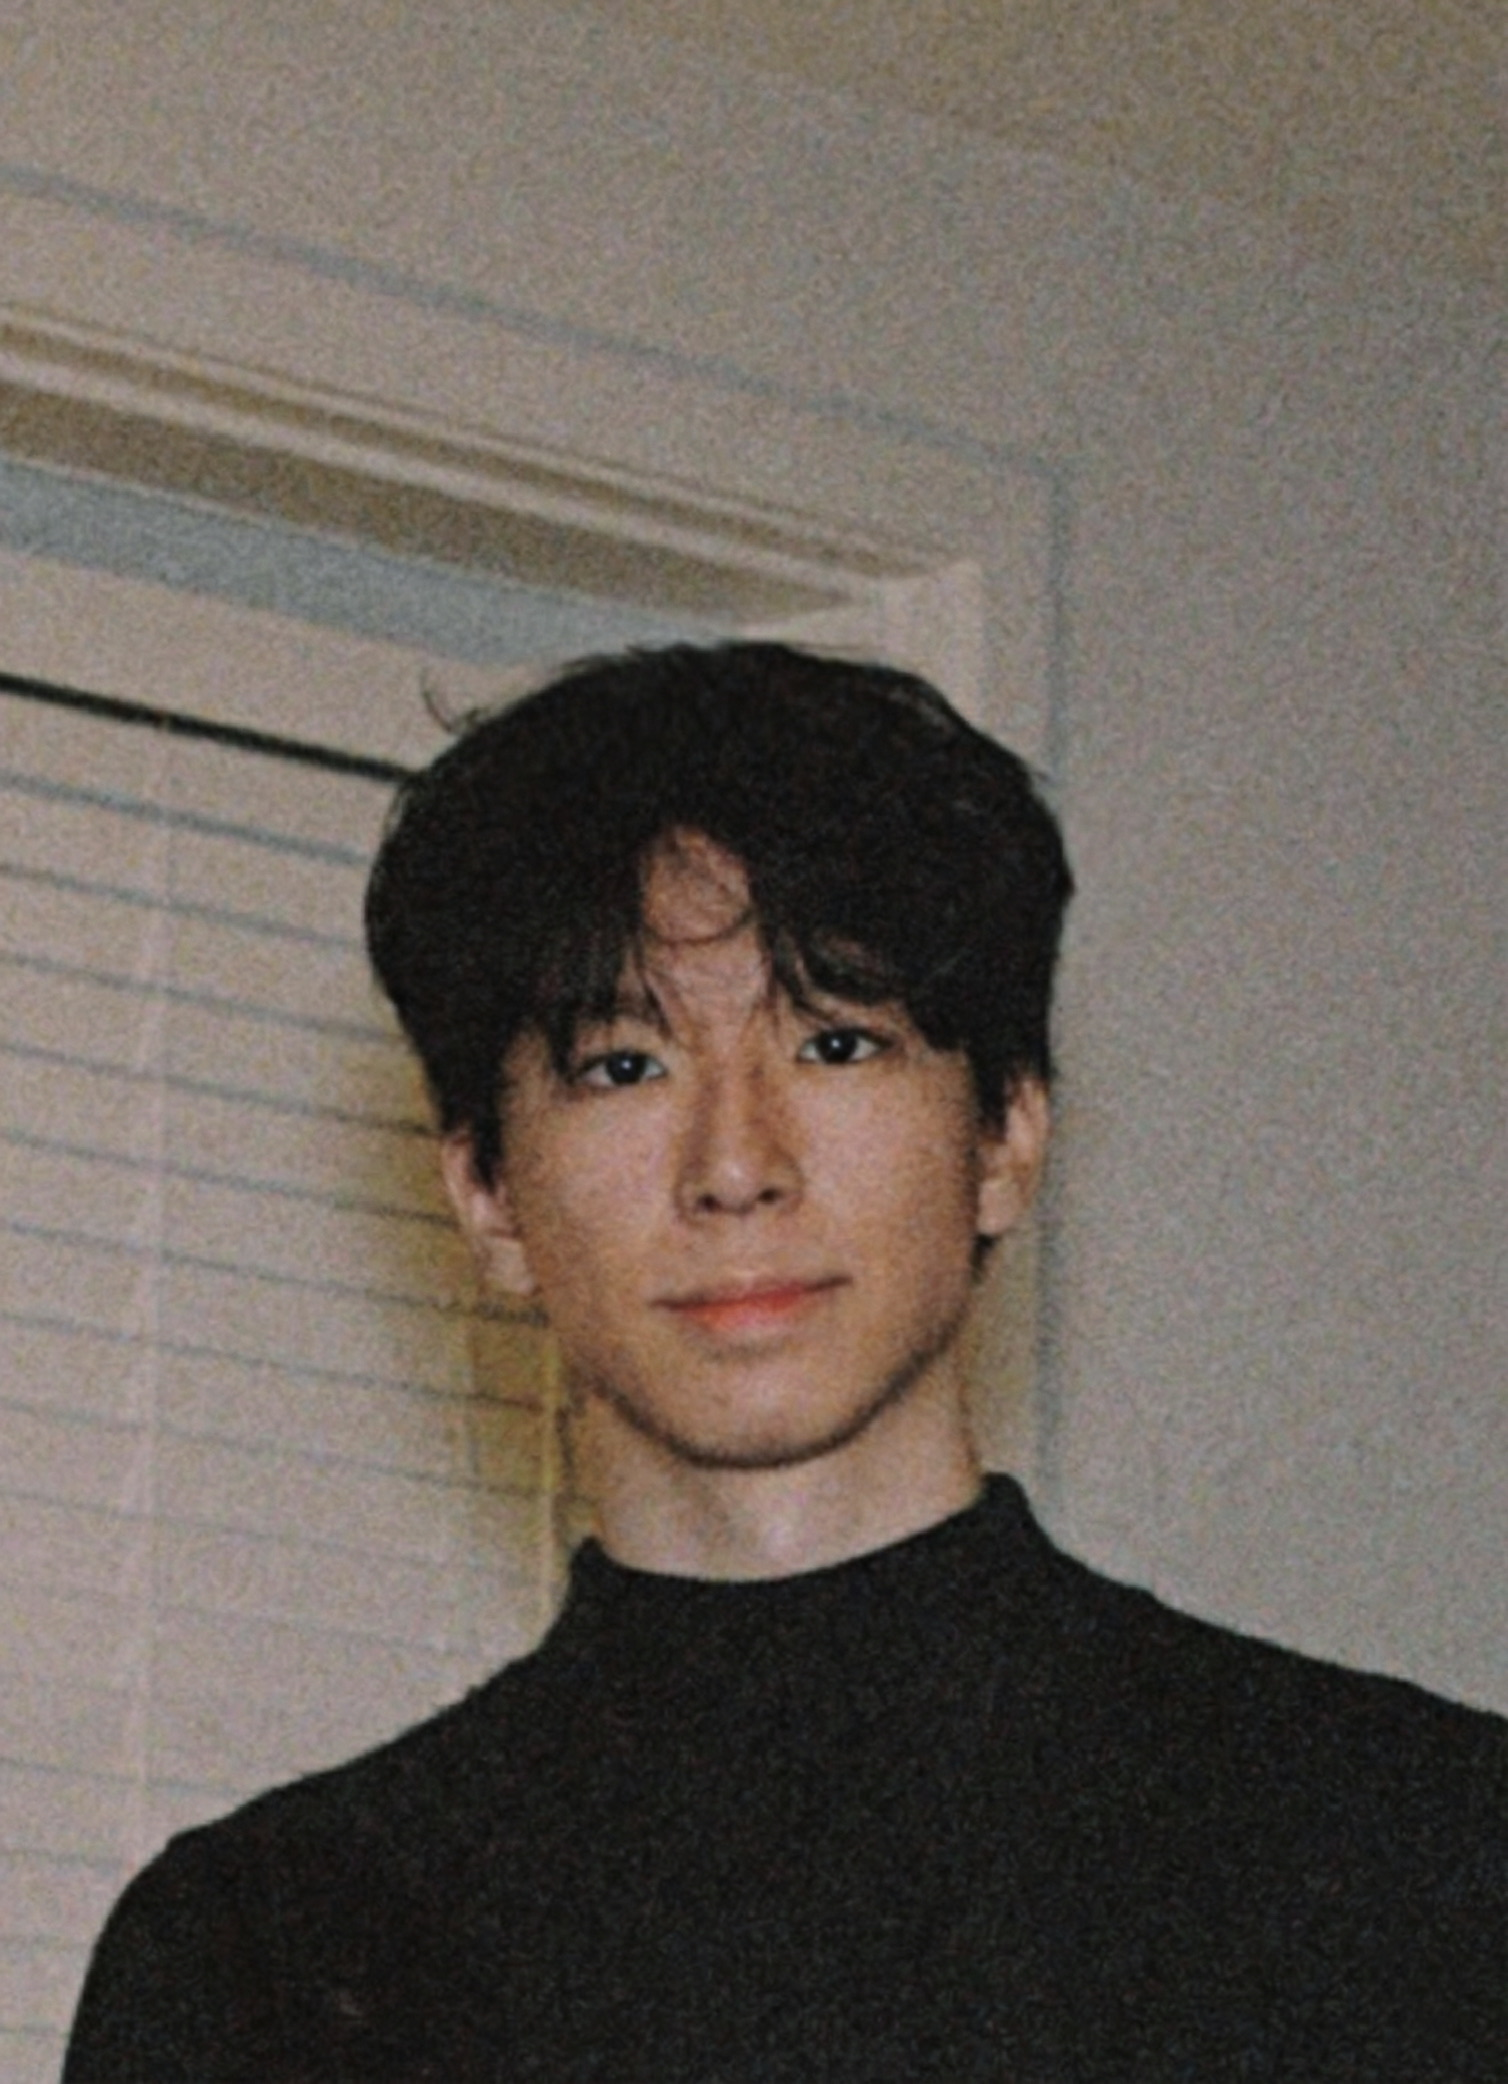
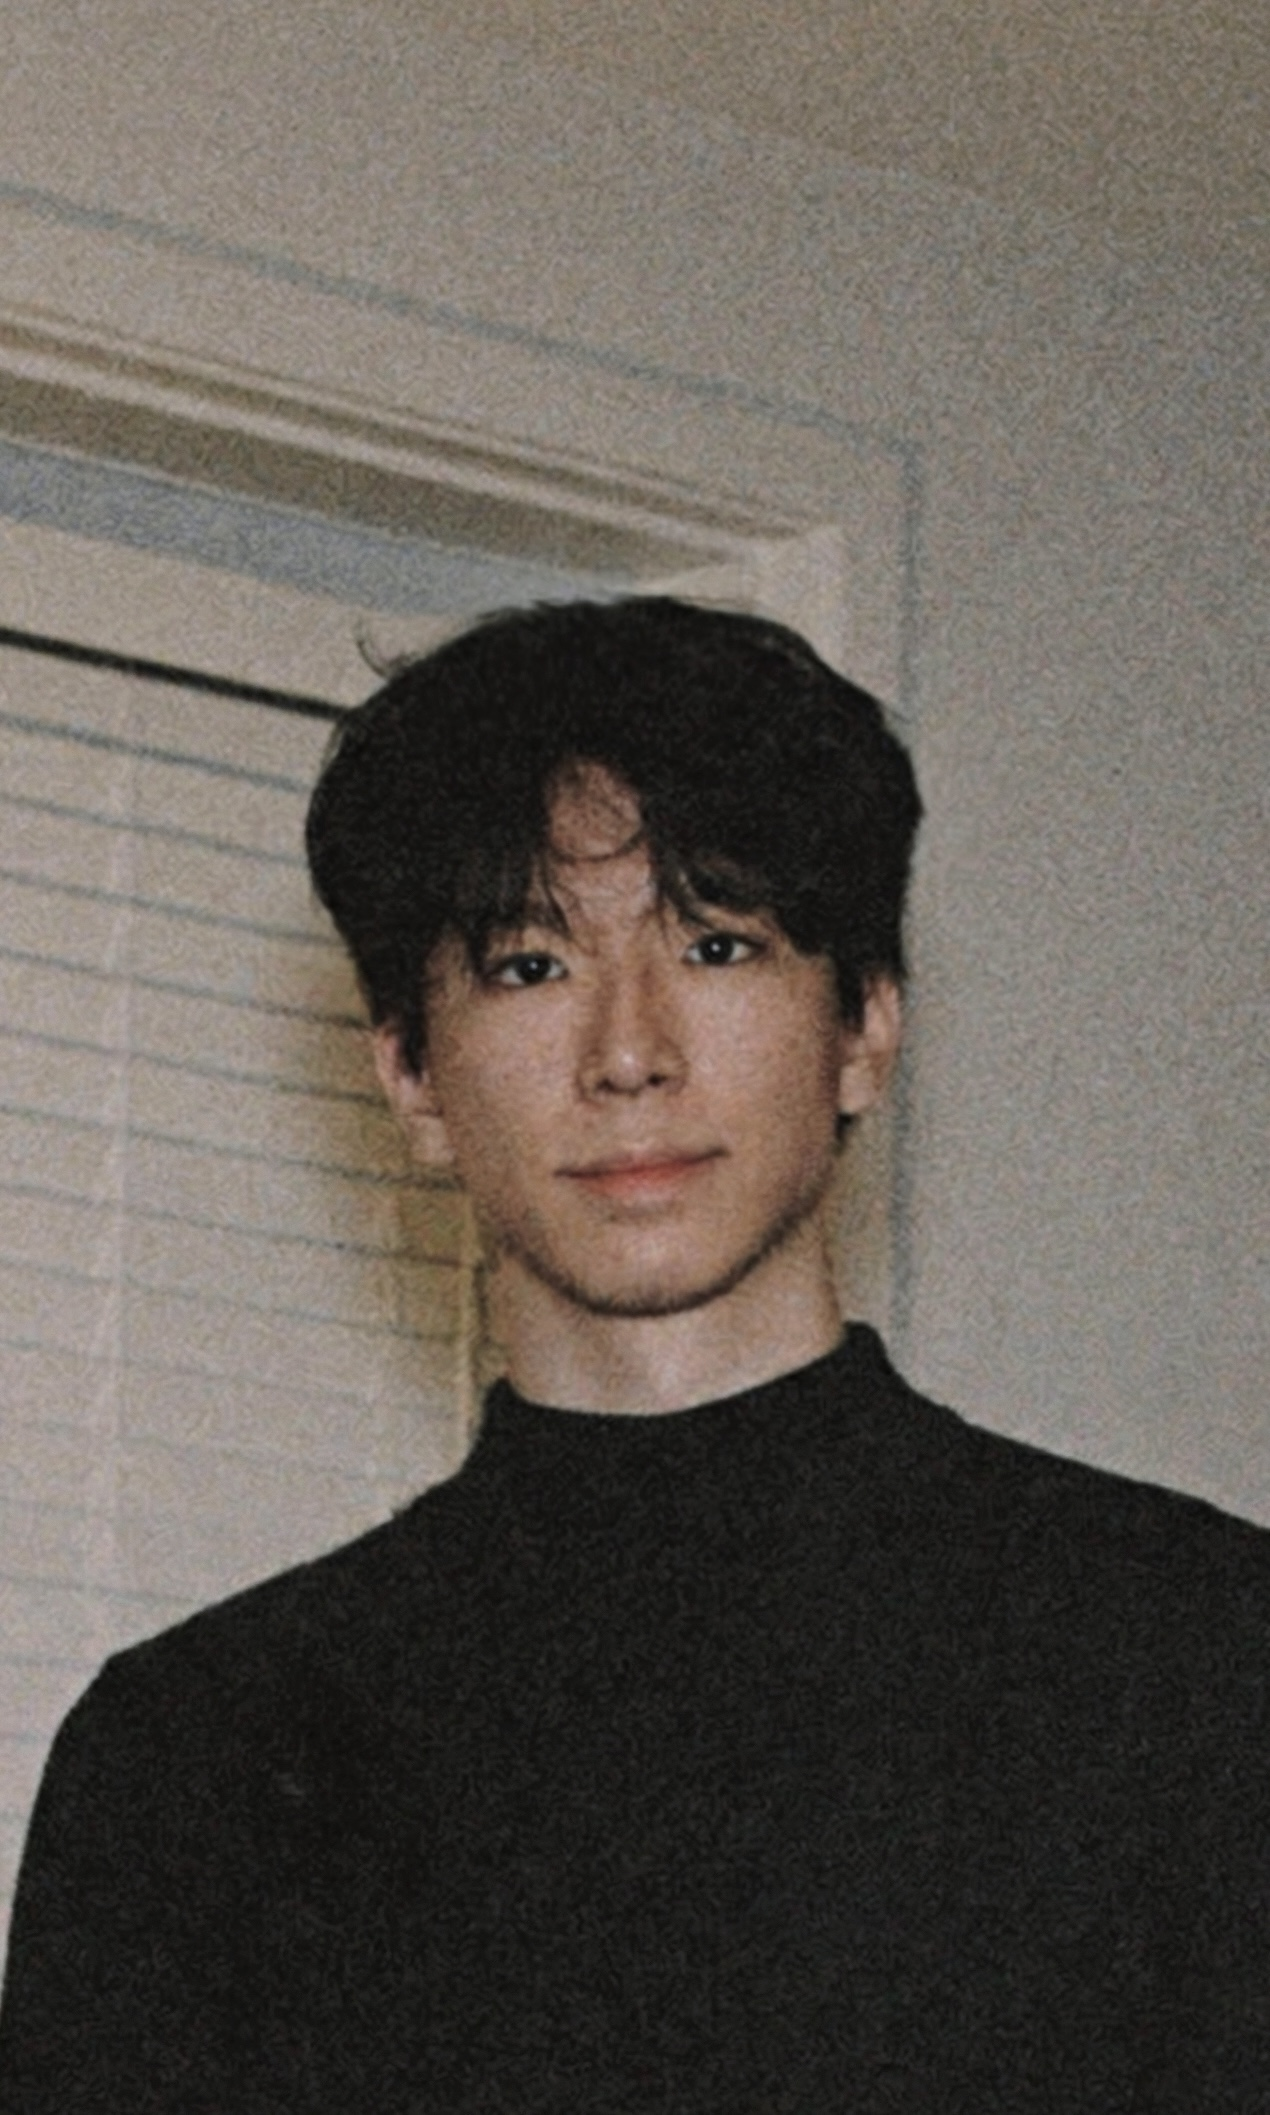
updates

diff --git a/app/page.tsx b/app/page.tsx
@@ -13,8 +13,8 @@ import Footer from "./section/footer";
 
 export default function Home() {
   return (
-    <main className="mx-auto px-[6%] max-w-[78rem] my-[4.2vw] grid grid-cols-11 gap-[3.2vw]">
-      <div className="col-span-7">
+    <main className="mx-auto px-[6%] max-w-[78rem] my-[4.2vw] grid grid-cols-3 gap-[3.2vw]">
+      <div className="col-span-2">
         <Bio />
         <Pub />
         <Section id="teaching">
@@ -23,7 +23,7 @@ export default function Home() {
         </Section>
         <Misc />
       </div>
-      <div className="col-span-4 relative">
+      <div className="col-span-1 relative">
         <Profile />
         <Section id="news">
           <Separator name="News" className="mt-4 mb-3" />

diff --git a/app/section/profile.tsx b/app/section/profile.tsx
@@ -4,7 +4,7 @@ import Section from "../ui/section";
 export default function Profile() {
   return (
     <Section className="mt-1" id="profile">
-      <div className="relative w-full h-auto aspect-[5/7] overflow-hidden">
+      <div className="relative w-full h-auto aspect-[3/5] overflow-hidden">
         <div
           aria-hidden
           className="absolute inset-0 bg-zinc-200 animate-pulse"
